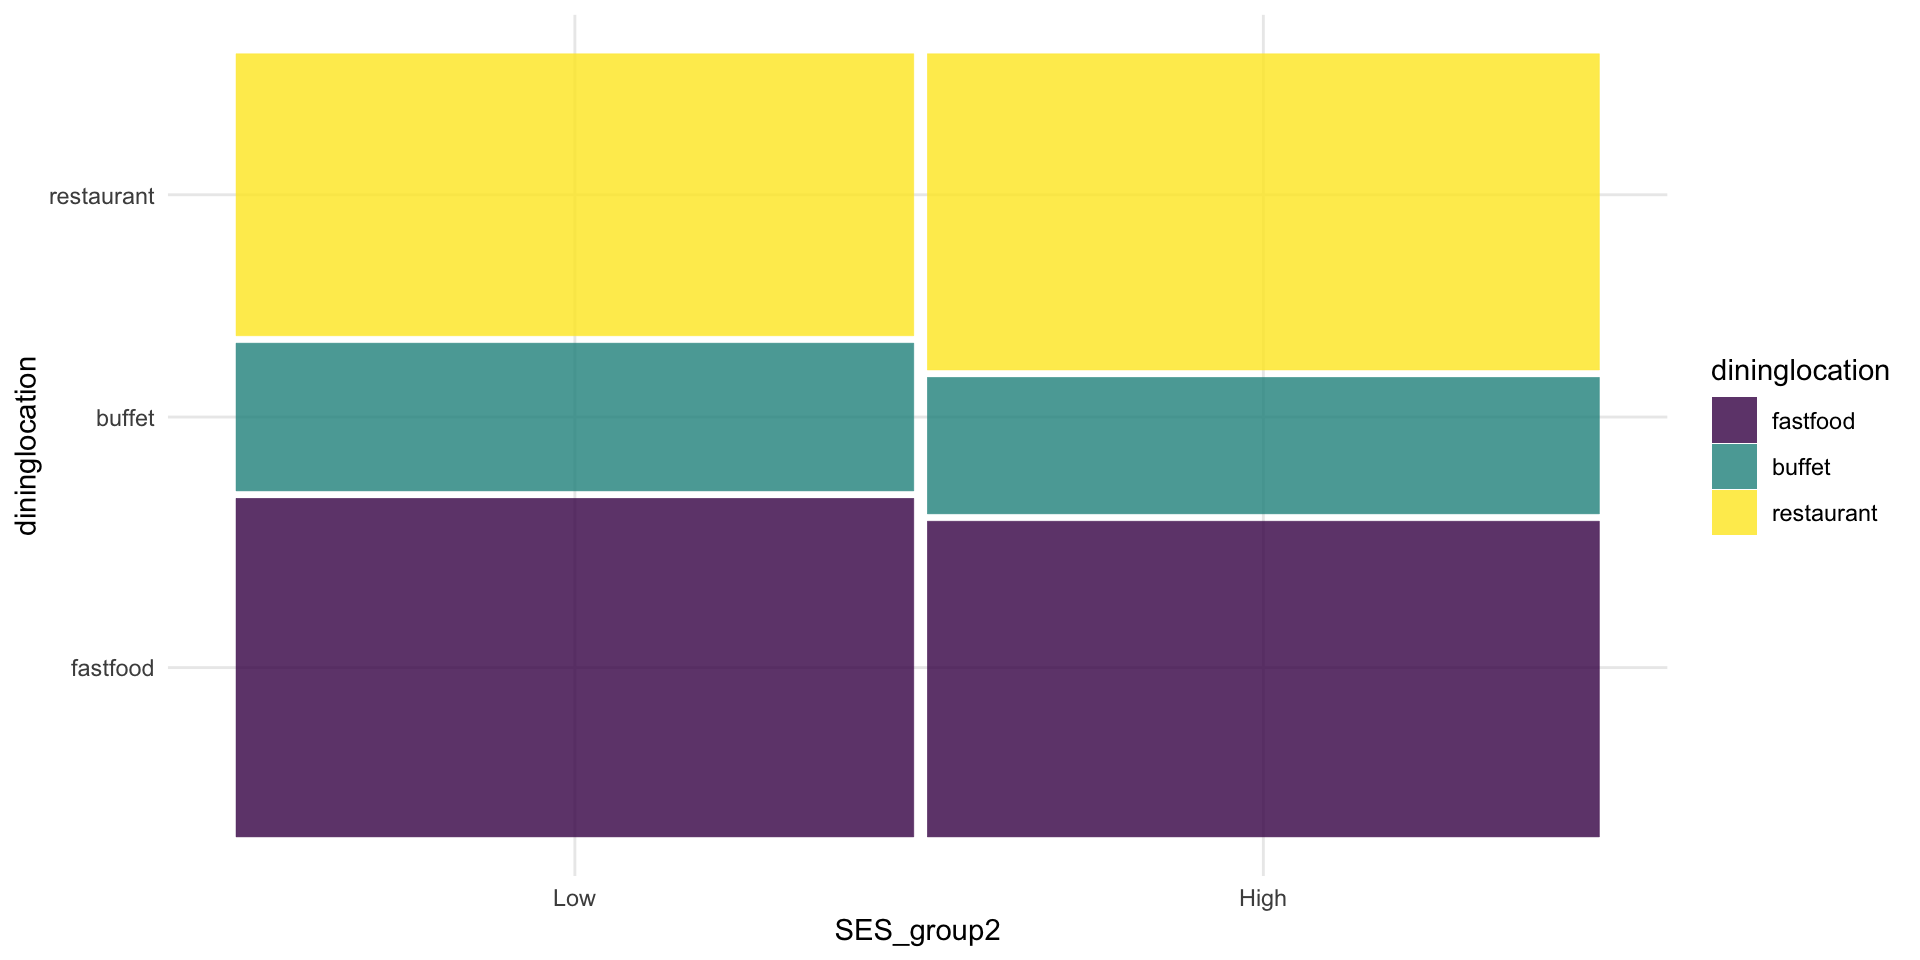
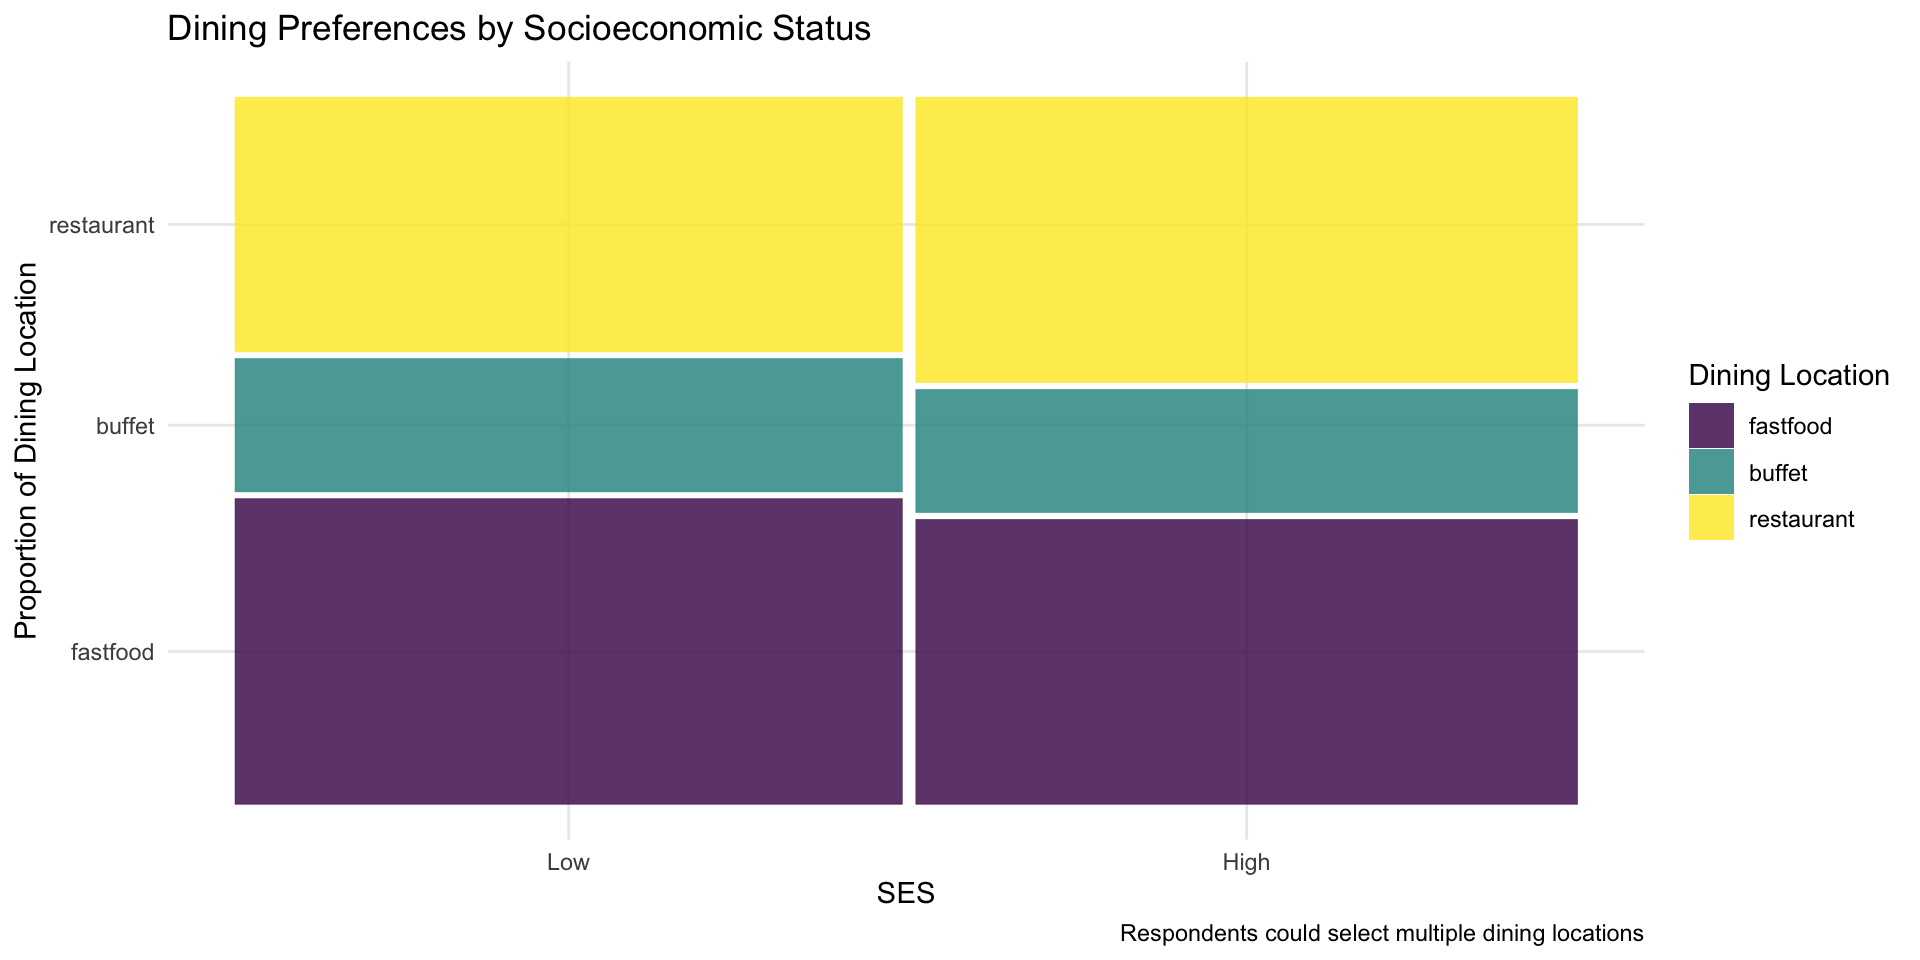
updated posts

diff --git a/docs/presentation.html b/docs/presentation.html
@@ -403,107 +403,115 @@ Songyi Ahn
 </div>
 </div>
 </section>
-<section id="findings-2" class="incremental">
-<h3>Findings-2</h3>
-<div class="quarto-figure quarto-figure-center">
-<figure>
-<p><img data-src="Final_Data_Script_files/figure-html/unnamed-chunk-4-2.png" class="quarto-figure quarto-figure-center" width="500"></p>
-</figure>
-</div>
-</section>
 </section>
 <section id="in-depth-discussion-plot-1.-ses-and-weight-perception" class="slide level2">
 <h2>In-Depth Discussion: Plot 1. SES and Weight Perception</h2>
-<p><strong>How do social media usage frequency and health information engagement levels on social media differ between Telehealth users and non-users?</strong></p>
-<section id="my-journey" class="incremental">
-<h3>My Journey</h3>
+<section id="intended-audience" class="incremental">
+<h3>Intended Audience</h3>
 <ul>
-<li>Created a small dataset: select(), rename(), mutate(), recode(), filter()</li>
-<li>Grouped data by HI SM engagement level: group_by(), pivot_longer()</li>
-<li>Created graphs for analysis: ggplot(), geom_bar()</li>
-<li>Calculated descriptive statistics: summarize()</li>
-<li>Created tables: pivot_wider(), group_by()</li>
+<li>Intended audience for this plot is blah blah blah</li>
 </ul>
 </section>
-<section id="challenges-resolutions" class="incremental">
-<h3>Challenges &amp; Resolutions</h3>
+<section id="design-choice" class="incremental">
+<h3>Design Choice</h3>
+<div class="cell">
+<div class="cell-output-display">
+<div>
+<figure>
+<p><img data-src="presentation_files/figure-revealjs/unnamed-chunk-10-1.png" width="960"></p>
+</figure>
+</div>
+</div>
+</div>
 <ul>
-<li><p>NA_real_ for <strong>numeric</strong> missing value</p>
-<p><img data-src="images/Challenge%201.png"></p></li>
+<li>Type of plot</li>
+<li>Layout</li>
+<li>Colors</li>
 </ul>
 </section>
-<section id="my-cool-figures" class="incremental">
-<h3>My Cool Figures</h3>
-<p><img data-src="images/G1-01.png" width="900"></p>
-</section>
-<section id="findings" class="incremental">
-<h3>Findings</h3>
+<section id="prior-version-change" class="incremental">
+<h3>Prior version &amp; Change</h3>
+<div class="cell">
+<div class="cell-output-display">
+<div>
+<figure>
+<p><img data-src="presentation_files/figure-revealjs/unnamed-chunk-11-1.png" width="960"></p>
+</figure>
+</div>
+</div>
+</div>
 <ul>
-<li>For SMF (<em>M</em> = 3.94, <em>SD</em> = 1.49 for Users, <em>M</em> = 3.60, <em>SD</em> = 1.68 for Non-Users), the same pattern was observed.</li>
-<li><strong>Almost every day</strong> (58% vs.&nbsp;50%) &gt; <strong>Never (15% vs.&nbsp;24%)</strong> &gt; At least once a week (13% vs.12%) &gt; A few times a month (8% vs.&nbsp;7%) &gt; Less than once a month (6% vs.&nbsp;6%)</li>
+<li>y limit</li>
+<li>color change</li>
+<li>title, labs</li>
 </ul>
 </section>
-<section id="continuing-challenges" class="incremental">
-<h3>Continuing Challenges</h3>
+<section id="encountered-challenge" class="incremental">
+<h3>Encountered Challenge</h3>
 <ul>
-<li>Detailed formatting for graphs <img data-src="images/G2-01.png" class="quarto-figure quarto-figure-center" width="800"></li>
+<li>Can’t really interpret</li>
 </ul>
 </section>
-<section id="next-r-hurdle" class="incremental">
-<h3>Next R Hurdle</h3>
+<section id="victory" class="incremental">
+<h3>Victory</h3>
 <ul>
-<li>More advanced data visualization?<img data-src="images/3d_chart.png" width="550"></li>
+<li>I anyhow made it</li>
 </ul>
 </section>
 </section>
 <section id="in-depth-discussion-plot-2.-ses-and-calorie-label-checking-for-weight" class="slide level2">
 <h2>In-Depth Discussion: Plot 2. SES and Calorie Label Checking for Weight</h2>
-<p><strong>How do cancer-related risk perceptions differ between telehealth users and non-users?</strong></p>
-<section id="my-journey-1" class="incremental">
-<h3>My Journey</h3>
+<section id="intended-audience-1" class="incremental">
+<h3>Intended Audience</h3>
 <ul>
-<li><p>selected relevant columns (cancer risk perception: screening willingness, worry, susceptibility, beliefs about causes, prevention feasibility)</p></li>
-<li><p>renamed variables into simpler names</p></li>
-<li><p>recoded responses into consistent numeric scales</p></li>
+<li>Intended audience for this plot is blah blah blah</li>
 </ul>
 </section>
-<section id="challenges-i-faced-but-succeeded" class="incremental">
-<h3>Challenges I Faced, but Succeeded</h3>
-<ul>
-<li><p>data cleaning: recoding several variables that had different criteria into a consistent numeric formats without any mistakes</p></li>
-<li><p>grouping data: calculating averages across multiple columns using mutate()</p></li>
-<li><p>visualization: using ‘dodge’ position in geom_bar</p></li>
-</ul>
-</section>
-<section id="my-cool-figures-1" class="incremental">
-<h3>My Cool Figures!</h3>
-<div class="quarto-figure quarto-figure-center">
+<section id="design-choice-1" class="incremental">
+<h3>Design Choice</h3>
+<div class="cell">
+<div class="cell-output-display">
+<div>
 <figure>
-<p><img data-src="images/cancer_risk_group_bar-01.png" class="quarto-figure quarto-figure-center" width="607"></p>
+<p><img data-src="presentation_files/figure-revealjs/unnamed-chunk-12-1.png" width="960"></p>
 </figure>
 </div>
-</section>
-<section id="substantive-findings" class="incremental">
-<h3>Substantive Findings</h3>
+</div>
+</div>
 <ul>
-<li>Regardless of cancer risk perception level, there are more people who have never used telehealth than those who have.</li>
+<li>Type of plot</li>
+<li>Layout</li>
+<li>Colors</li>
 </ul>
-<div class="quarto-figure quarto-figure-center">
+</section>
+<section id="prior-version-change-1" class="incremental">
+<h3>Prior version &amp; Change</h3>
+<div class="cell">
+<div class="cell-output-display">
+<div>
 <figure>
-<p><img data-src="images/RQ3-1.jpg" class="quarto-figure quarto-figure-center" width="400"></p>
+<p><img data-src="presentation_files/figure-revealjs/unnamed-chunk-13-1.png" width="960"></p>
 </figure>
 </div>
-</section>
-<section id="continuing-challenges-1" class="incremental">
-<h3>Continuing Challenges</h3>
+</div>
+</div>
 <ul>
-<li>Refining the grouping criteria for low, medium, and high based on their average scores? or sum scores?</li>
+<li>SES group divide by quantile</li>
+<li>color change</li>
+<li>Geom_bin2d to geom_tile</li>
 </ul>
 </section>
-<section id="next-r-hurdle-1" class="incremental">
-<h3>Next R Hurdle</h3>
+<section id="encountered-challenge-1" class="incremental">
+<h3>Encountered Challenge</h3>
 <ul>
-<li>Learning how to conduct more complicated statistical analysis to deepen understanding of the relationship between cancer risk perception and telehealth usage, beyond the distribution</li>
+<li>color not instinctive to in grasp the meaning?</li>
+</ul>
+</section>
+<section id="victory-1" class="incremental">
+<h3>Victory</h3>
+<ul>
+<li>I anyhow made it</li>
+<li>renaming frequency number and factor ordering</li>
 </ul>
 </section>
 <div class="quarto-auto-generated-content">
